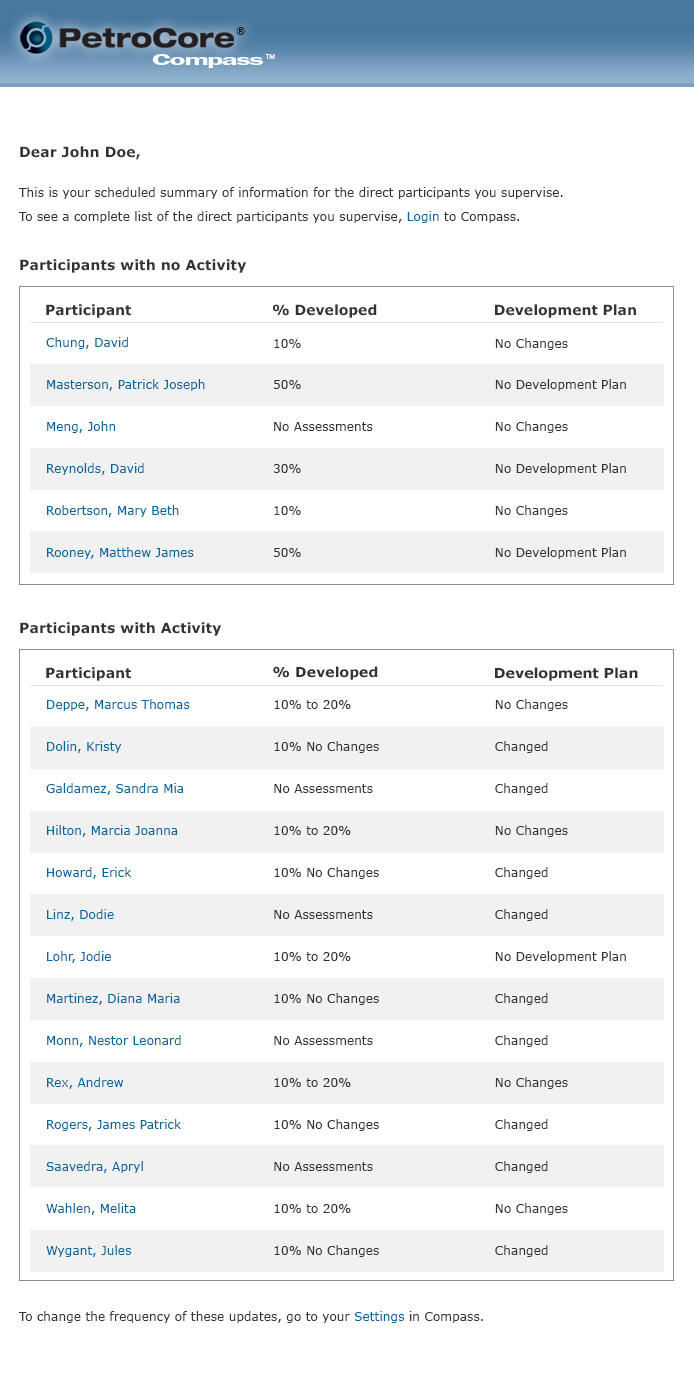
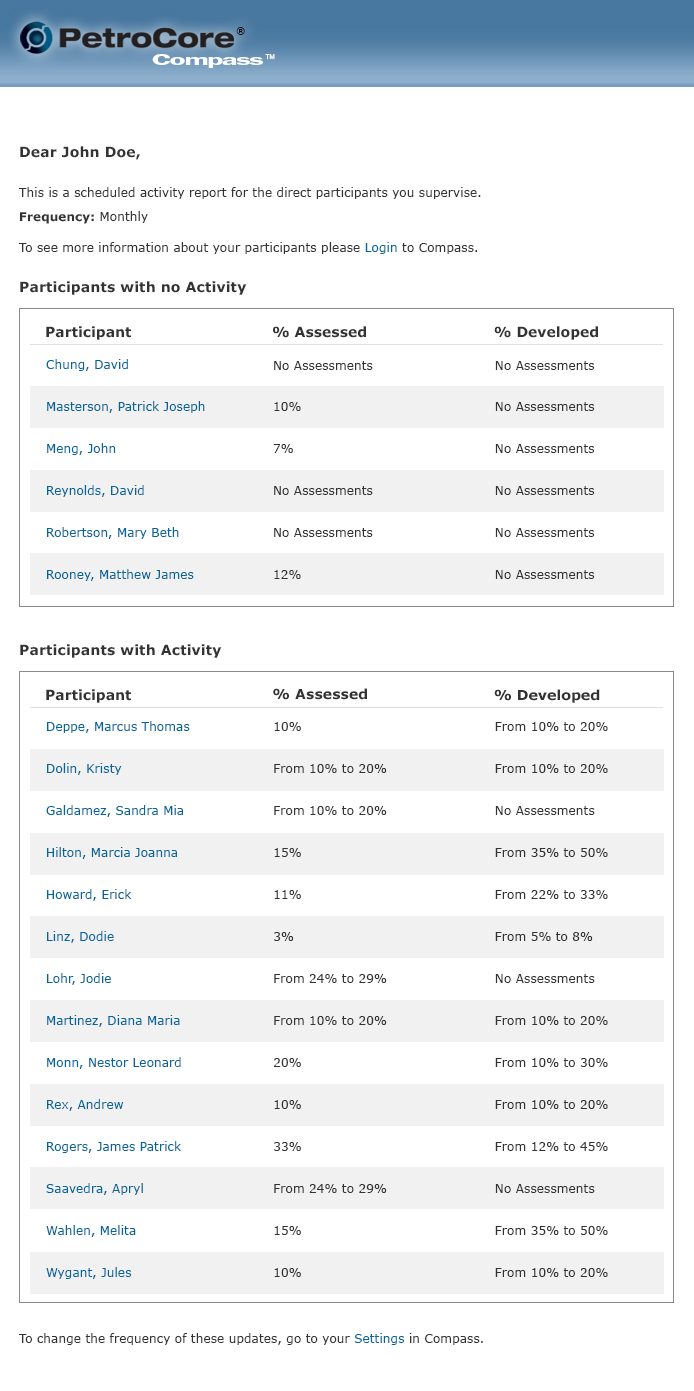
#1192, updated content and screenshot to match prototype in #1158.

diff --git a/email-notifications.html b/email-notifications.html
@@ -104,8 +104,8 @@
       <p>The table has three columns:</p>
       <ol>
         <li><strong>Participant:</strong> Display the participant's name.</li>
+        <li><strong>% Assessed:</strong> Increase or no increase on their assessment.</li>
         <li><strong>% Developed:</strong> Increase or no increase on their development plan.</li>
-        <li><strong>Development Plan:</strong> Either no changes, changes, or no development plan.</li>
       </ol>
       <p>&nbsp;</p>
 
